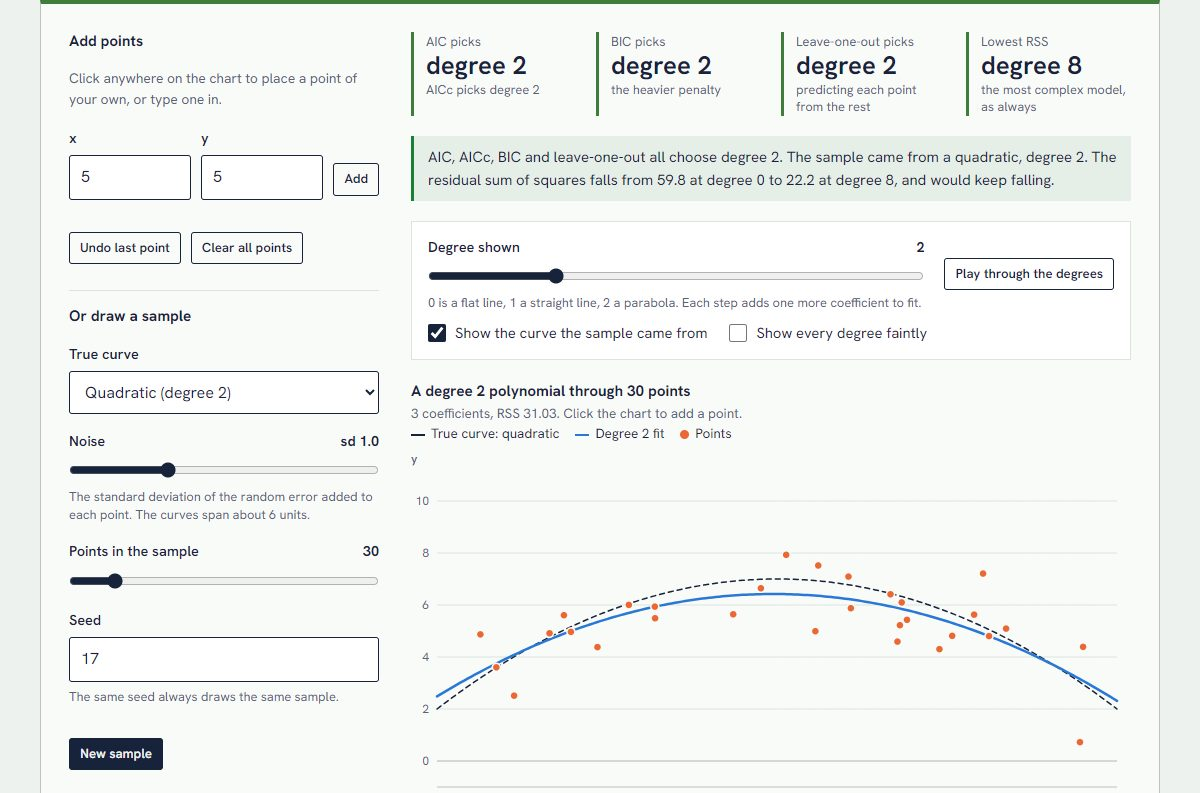
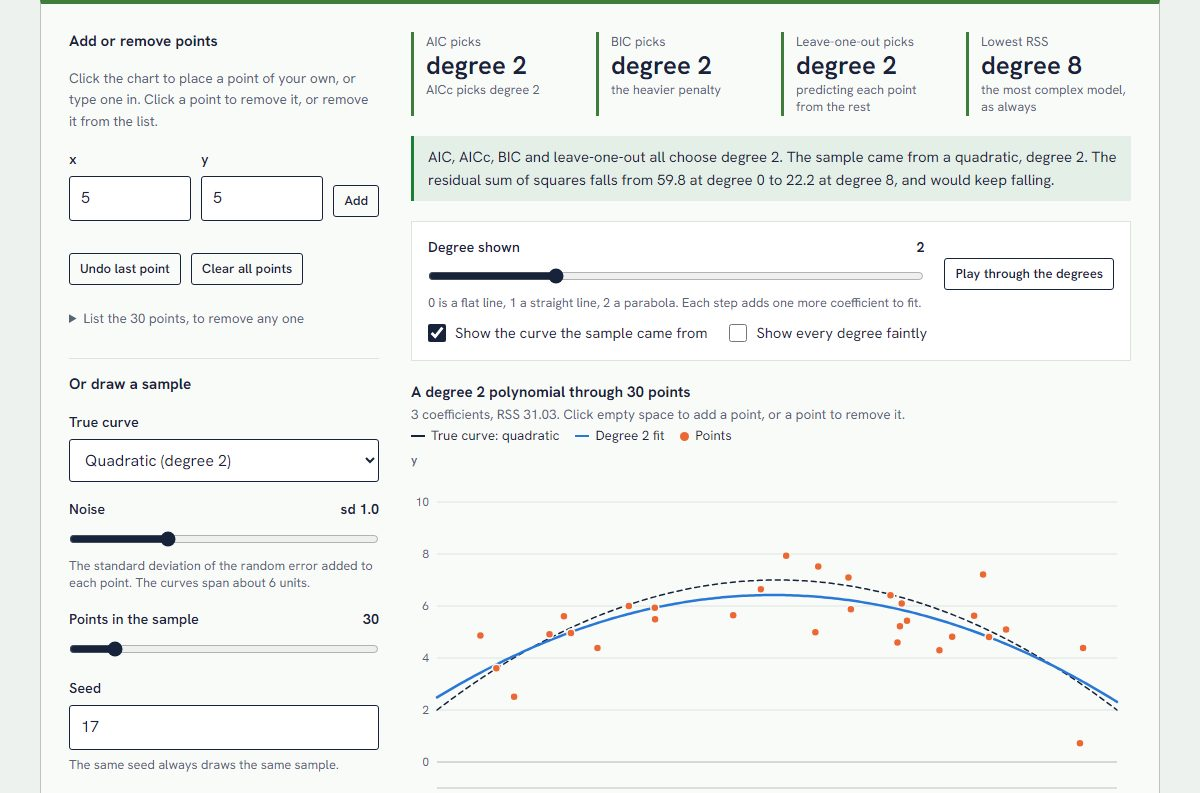
Review project 17: exact fits, correct AIC overshoot rate, remove single points

diff --git a/365projects/17/app.js b/365projects/17/app.js
@@ -49,10 +49,10 @@ const noiseSlider = slider({
 const nSlider = slider({ label: "Points in the sample", min: 5, max: 200, step: 1, value: state.n, format: fmt.int, onInput: (v) => { state.n = v; regenerate(); } });
 const seedField = numberField({ label: "Seed", min: 0, max: 999999, step: 1, value: state.seed, hint: "The same seed always draws the same sample." });
 const seedNote = el("div");
+const seedProblem = () => (Number.isInteger(seedField.value) ? "" : `The seed must be a whole number from 0 to 999,999. The sample shown still uses seed ${state.seed}.`);
 seedField.input.addEventListener("input", () => {
-  const v = seedField.value;
-  if (!Number.isInteger(v)) { seedNote.replaceChildren(note("bad", "The seed must be a whole number from 0 to 999,999.")); return; }
-  state.seed = v;
+  if (seedProblem()) { seedField.input.classList.add("invalid"); seedNote.replaceChildren(note("bad", seedProblem())); return; }
+  state.seed = seedField.value;
   regenerate();
 });
 
@@ -69,14 +69,52 @@ function addTyped() {
   refit();
 }
 
+// Every point with a button that removes it: the keyboard's way of doing what a click on a point does.
+const listBox = el("div", { class: "pts" });
+const listSummary = el("summary");
+const listDetails = el("details", { class: "chart-table" }, listSummary, listBox);
+listDetails.addEventListener("toggle", () => drawList());
+function removePoint(i, row = -1) {
+  state.points.splice(i, 1);
+  state.custom = true;
+  refit();
+  if (row >= 0) (listBox.querySelectorAll("button")[Math.min(row, state.points.length - 1)] ?? listSummary).focus();
+}
+function drawList() {
+  const count = state.points.length;
+  listSummary.textContent = count ? `List the ${count === 1 ? "point" : `${fmt.int(count)} points`}, to remove any one` : "No points to list";
+  if (!listDetails.open || !count) { listBox.replaceChildren(); return; }
+  const rows = state.points.map((p, i) => ({ ...p, i })).sort((a, b) => a.x - b.x);
+  listBox.replaceChildren(table({
+    caption: "Points, from left to right",
+    columns: [
+      { key: "x", label: "x", num: true, format: (v) => fmt.num(v, 2) },
+      { key: "y", label: "y", num: true, format: (v) => fmt.num(v, 2) },
+      { key: "i", label: "Remove", format: (i, p) => {
+        const b = button("Remove", () => removePoint(i, rows.indexOf(p)), { small: true });
+        b.setAttribute("aria-label", `Remove the point at x ${fmt.num(p.x, 2)}, y ${fmt.num(p.y, 2)}`);
+        return b;
+      } },
+    ],
+    rows,
+  }));
+}
+/** The point drawn within 9 px of a click at (px, py) in the chart's own pixels, or -1. toPx is the chart's scale. */
+function pointAt(px, py, toPx) {
+  let hit = -1, nearest = 9 * 9;
+  state.points.forEach((p, i) => { const [qx, qy] = toPx(p.x, p.y); const d = (qx - px) ** 2 + (qy - py) ** 2; if (d <= nearest) { nearest = d; hit = i; } });
+  return hit;
+}
+
 const controls = el("div", { class: "controls" },
-  el("h3", { text: "Add points" }),
-  el("p", { class: "small muted", text: "Click anywhere on the chart to place a point of your own, or type one in." }),
+  el("h3", { text: "Add or remove points" }),
+  el("p", { class: "small muted", text: "Click the chart to place a point of your own, or type one in. Click a point to remove it, or remove it from the list." }),
   el("div", { class: "xy" }, xField.el, yField.el, button("Add", addTyped, { small: true })),
   pointNote,
   el("div", { class: "row" },
     button("Undo last point", () => { state.points.pop(); state.custom = true; refit(); }, { small: true }),
     button("Clear all points", () => { state.points = []; state.custom = true; state.sampled = false; refit(); }, { small: true })),
+  listDetails,
   el("h3", { text: "Or draw a sample" }),
   truthSel.el, noiseSlider.el, nSlider.el, seedField.el, seedNote,
   el("div", { class: "row" }, button("New sample", () => { state.seed = randomSeed() % 1000000; seedField.value = state.seed; regenerate(); }, { primary: true, small: true })));
@@ -107,7 +145,7 @@ const expChart = chart(expChartBox, { series: [], height: 300 });
 function regenerate() {
   const made = generate({ truth: state.truth, noise: state.noise, n: state.n, seed: state.seed });
   if (made.error) { seedNote.replaceChildren(note("bad", made.error)); return; }
-  seedNote.replaceChildren();
+  seedNote.replaceChildren(...(seedProblem() ? [note("bad", seedProblem())] : []));
   state.points = made.points;
   state.custom = false;
   state.sampled = true;
@@ -121,6 +159,7 @@ function refit() {
   state.fitError = fit.error || "";
   if (!state.fit) stopPlay();
   draw();
+  drawList();
 }
 
 /* ---------- drawing ---------- */
@@ -130,12 +169,17 @@ function draw() {
   const { fit, points } = state;
   const t = truthOf(state.truth);
   const ys = points.map((p) => p.y);
-  const yDomain = [Math.floor(Math.min(0, ...ys) - 0.5), Math.ceil(Math.max(10, ...ys) + 0.5)];
+  const yDomain = state.yDomain = [Math.floor(Math.min(0, ...ys) - 0.5), Math.ceil(Math.max(10, ...ys) + 0.5)];
   truthBox.input.disabled = !state.sampled;
   const truthLine = state.showTruth && state.sampled ? [{ name: state.custom ? `${t.label} used by the generator` : `True curve: ${t.label.toLowerCase()}`, type: "line", data: Array.from({ length: 201 }, (_, i) => { const x = X_MIN + ((X_MAX - X_MIN) * i) / 200; return [x, t.f(x)]; }), color: "#16233b", dash: true, width: 1.5 }] : [];
   const dots = { name: "Points", type: "scatter", data: points.map((p) => [p.x, p.y]), color: 1, r: points.length > 120 ? 3 : 4 };
   const axes = { x: { label: "x", domain: [X_MIN, X_MAX] }, y: { label: "y", domain: yDomain } };
-  const onClick = ({ x, y, inside }) => { if (inside) { state.points.push({ x, y }); state.custom = true; refit(); } };
+  const onClick = ({ x, y, inside, px, py, toPx, key }) => {
+    // Mouse and touch only: from the keyboard, points are added with the x and y boxes and removed from the list.
+    if (!inside || key) return;
+    const hit = pointAt(px, py, toPx);
+    if (hit >= 0) removePoint(hit); else { state.points.push({ x, y }); state.custom = true; refit(); }
+  };
 
   degSlider.input.disabled = !fit;
   playBtn.disabled = !fit;
@@ -153,25 +197,32 @@ function draw() {
   degSlider.value = state.degree;
   const d = state.degree, m = fit.models[d], best = picks(fit);
 
-  tiles.aic.set(deg(best.aic), `AICc picks ${deg(best.aicc)}`);
+  const exact = fit.models.find((k) => k.exact); // the lowest degree that passes through every point
+  tiles.aic.set(deg(best.aic), best.aicc == null ? "AICc needs more points" : `AICc picks ${deg(best.aicc)}`);
   tiles.bic.set(deg(best.bic), "the heavier penalty");
   tiles.loo.set(deg(best.loo), "predicting each point from the rest");
-  tiles.rss.set(deg(best.rss), best.rss === fit.top ? "the most complex model, as always" : "an exact fit");
+  tiles.rss.set(deg(best.rss), exact ? "an exact fit" : fit.top === 0 ? "the only model there is room for" : best.rss === fit.top ? "the most complex model, as always" : "higher degrees fit no better here");
 
   // Verdict in words.
-  const chosen = CRITERIA.map((c) => best[c.key]);
+  const named = CRITERIA.filter((c) => best[c.key] != null);
+  const agreed = new Set(named.map((c) => best[c.key])).size === 1;
+  const list = (rules) => rules.map((c) => (c.key === "loo" ? "leave-one-out" : c.label)).join(", ").replace(/, ([^,]*)$/, " and $1");
   const parts = [];
-  if (chosen.some((v) => v == null)) parts.push("At least one model fits these points exactly, so the criteria have no noise to weigh and are not all defined.");
-  else if (new Set(chosen).size === 1) parts.push(`AIC, AICc, BIC and leave-one-out all choose degree ${chosen[0]}.`);
-  else parts.push(`The rules disagree: ${CRITERIA.map((c) => `${c.label} chooses degree ${best[c.key]}`).join(", ")}.`);
+  if (exact) parts.push(`A degree ${exact.degree} polynomial passes through all ${fit.n} points exactly${exact.degree === 0 ? ", because they share one y value" : ""}. With no misfit left to weigh against the extra coefficients, every rule is taken to choose degree ${exact.degree}. The criteria are not defined for a model that fits exactly, so the table shows a dash.`);
+  else if (fit.top === 0) parts.push("Only the mean can be fitted here, so the rules have nothing to choose between.");
+  else {
+    parts.push(agreed ? `${list(named)} all choose degree ${best[named[0].key]}.` : `The rules disagree: ${named.map((c) => `${list([c])} chooses degree ${best[c.key]}`).join(", ")}.`);
+    if (named.length < CRITERIA.length) parts.push(`${list(CRITERIA.filter((c) => best[c.key] == null))} cannot be worked out from so few points.`);
+  }
   if (!state.custom) parts.push(t.degree ? `The sample came from a ${t.label.toLowerCase()}, degree ${t.degree}.` : "The sample came from a sine wave, which no polynomial matches exactly.");
-  parts.push(`The residual sum of squares falls from ${fmt.num(fit.models[0].rss, 1)} at degree 0 to ${fmt.num(fit.models[fit.top].rss, 1)} at degree ${fit.top}, and would keep falling.`);
-  const limited = fit.top < 8 ? note("", `Only degrees 0 to ${fit.top} are fitted to these ${fit.n} points. A polynomial needs more separate x positions than its degree, and at least one point to spare, before its fit can be judged.`) : null;
-  verdict.replaceChildren(...[note(new Set(chosen).size === 1 && chosen[0] != null ? "good" : "", parts.join(" ")), limited].filter(Boolean));
+  const [first, last] = [fmt.num(fit.models[0].rss, 1), fmt.num(fit.models[fit.top].rss, 1)];
+  if (!exact && first !== last) parts.push(`The residual sum of squares falls from ${first} at degree 0 to ${last} at degree ${fit.top}${fit.top === 8 ? ", and would keep falling" : ""}.`);
+  const limited = fit.top < 8 ? note("", `${fit.top === 0 ? "Only degree 0, the mean, is" : `Only degrees 0 to ${fit.top} are`} fitted to these ${fit.n} points. A polynomial needs more separate x positions than its degree (positions that all but coincide do not count), and at least one point to spare, before its fit can be judged.`) : null;
+  verdict.replaceChildren(...[note(!exact && agreed && named.length === CRITERIA.length ? "good" : "", parts.join(" ")), limited].filter(Boolean));
 
   main.update({
     title: `A degree ${d} polynomial through ${fmt.int(fit.n)} points`,
-    subtitle: `${m.k - 1} ${m.k - 1 === 1 ? "coefficient" : "coefficients"}, RSS ${fmt.num(m.rss, 2)}. Click the chart to add a point.`,
+    subtitle: `${m.k - 1} ${m.k - 1 === 1 ? "coefficient" : "coefficients"}, RSS ${fmt.num(m.rss, 2)}. Click empty space to add a point, or a point to remove it.`,
     label: `Scatter plot of the points with the fitted degree ${d} polynomial`, ...axes, onClick, marks: [],
     series: [
       ...(state.showAll ? fit.models.filter((k) => k.degree !== d).map((k) => ({ name: `Degree ${k.degree}`, legend: false, hover: false, type: "line", data: curve(fit, k.degree), color: "#8a94a3", width: 1, opacity: 0.7 })) : []),
@@ -207,26 +258,33 @@ function draw() {
   });
   t2.classList.add("crit");
   t2.querySelectorAll("tbody tr")[d]?.classList.add("on");
-  tableBox.replaceChildren(t2);
+  const dashes = fit.models.some((k) => CRITERIA.some((c) => !Number.isFinite(k[c.key])));
+  tableBox.replaceChildren(...[t2, dashes ? el("p", { class: "small muted", text: "A dash marks a value that cannot be worked out. AICc needs at least k + 2 points, leave-one-out needs every point to be predictable from the others, and no criterion is defined for a model that fits exactly." }) : null].filter(Boolean));
 
   // Two small charts: error on the sample against error on held-out points, and the criteria.
   const x = { label: "Degree of the polynomial", domain: [0, Math.max(1, fit.top)], ticks: Math.max(1, fit.top), format: (v) => (Number.isInteger(v) ? String(v) : "") };
-  const line = (key, name, color) => ({ name, type: "line", color, data: fit.models.filter((k) => Number.isFinite(k[key])).map((k) => [k.degree, k[key]]) });
-  const dot = (key) => (best[key] == null ? [] : [{ type: "point", x: best[key], y: fit.models[best[key]][key], color: palette[COLOR[key]], r: 5 }]);
+  // What can be charted: a model that fits exactly has a rounding-error residual, which would stretch a log axis over thirty decades.
+  const usable = (key) => fit.models.filter((k) => !k.exact && Number.isFinite(k[key]));
+  const line = (key, name, color) => ({ name, type: "line", color, data: usable(key).map((k) => [k.degree, k[key]]) });
+  const blank = usable("aic").length < 2 ? { series: [], marks: [], empty: exact ? "A model fits exactly, so there is nothing to chart" : "Only one degree can be fitted" } : null;
+  // A rule's choice is marked with a dot, unless its value there is undefined (an exact fit) and there is nowhere to put one.
+  const dot = (key) => (best[key] == null || !Number.isFinite(fit.models[best[key]][key]) ? [] : [{ type: "point", x: best[key], y: fit.models[best[key]][key], color: palette[COLOR[key]], r: 5 }]);
   const here = { type: "vline", x: d };
-  const errs = fit.models.flatMap((k) => [k.mse, k.loo]).filter((v) => Number.isFinite(v) && v > 0);
+  const errs = [...usable("mse").map((k) => k.mse), ...usable("loo").map((k) => k.loo)].filter((v) => v > 0);
   errChart.update({
     title: "Error on the sample, and on points left out", subtitle: "Fitting error only falls. The error on a point the model has not seen turns back up.",
     label: "Line chart of mean squared error by degree, on the sample and leave-one-out", x,
-    y: { label: "Mean squared error (log scale)", type: "log", domain: errs.length ? [Math.min(...errs) / 1.25, Math.max(...errs) * 1.25] : undefined, format: (v) => fmt.sig(v, 2) },
+    y: { label: "Mean squared error (log scale)", type: "log", domain: errs.length ? [Math.min(...errs) / 1.25, Math.max(...errs) * 1.25] : undefined, format: (v) => (v >= 0.001 ? fmt.sig(v, 2) : v.toExponential(0)) },
     series: [line("mse", "On the sample (RSS / n)", "#8a94a3"), line("loo", "Leave-one-out", COLOR.loo)],
     marks: [here, ...dot("loo")],
+    ...blank,
   });
   critChart.update({
     title: "The information criteria", subtitle: "Fit plus a charge for each parameter. Lower is better; the dot is each one's choice.",
     label: "Line chart of AIC, AICc and BIC by degree", x, y: { label: "Criterion value" },
     series: ["aic", "aicc", "bic"].map((key) => line(key, LABEL[key], COLOR[key])),
     marks: [here, ...["aic", "aicc", "bic"].flatMap(dot)],
+    ...blank,
   });
 }
 
@@ -235,11 +293,16 @@ function experimentNow() {
   const token = ++state.run;
   const settings = { truth: state.truth, noise: state.noise, n: state.n, seed: state.seed };
   const trials = [];
+  let said = -Infinity; // the status line is read out by screen readers, so progress is reported twice a second and no more
   const step = () => {
     if (token !== state.run) return;
     const t0 = performance.now();
     while (trials.length < RUNS && performance.now() - t0 < 25) trials.push(...experiment(settings, trials.length, Math.min(RUNS, trials.length + 20)));
-    if (trials.length < RUNS) { expStatus.textContent = `Drawing samples: ${fmt.int(trials.length)} of ${fmt.int(RUNS)}…`; setTimeout(step, 0); return; }
+    if (trials.length < RUNS) {
+      if (t0 - said >= 500) { said = t0; expStatus.textContent = `Drawing samples: ${fmt.int(trials.length)} of ${fmt.int(RUNS)}…`; }
+      setTimeout(step, 0);
+      return;
+    }
     drawExperiment(summarise(trials, truthOf(settings.truth).degree), settings);
   };
   step();

diff --git a/365projects/17/index.html b/365projects/17/index.html
@@ -16,7 +16,7 @@
     .xy { display: grid; grid-template-columns: minmax(0, 1fr) minmax(0, 1fr) auto; gap: 10px; align-items: end; }
     .xy .btn { margin-bottom: 4px; }
     .low { position: relative; font-weight: 700; padding: 1px 6px; border-radius: 3px; background: color-mix(in srgb, var(--good) 18%, transparent); }
-    .crit td { vertical-align: middle; }
+    .crit td, .pts td { vertical-align: middle; }
     .crit tr.on { background: color-mix(in srgb, var(--ink) 6%, transparent); }
     .crit .btn.small { min-width: 2.4em; }
     .exp { display: grid; grid-template-columns: minmax(0, 1fr); gap: 14px; padding-top: 24px; border-top: 1px solid var(--rule); }
@@ -50,20 +50,20 @@
       <h2>The idea</h2>
       <p>Occam's razor is the advice, credited to the fourteenth-century friar William of Ockham, not to multiply entities beyond necessity: of two explanations that account for the facts equally well, take the simpler. The catch is in "equally well". Two theories almost never fit equally well, because the more complicated one almost always fits better. A curve with nine adjustable coefficients can bend closer to thirty points than a curve with three, whatever produced the points. If closeness of fit were the test, the most complicated theory on the table would win every time, and the razor would never get to cut.</p>
       <p>The way out is to notice that part of any good fit is a fit to noise. Each extra parameter buys a guaranteed drop in error on the data in hand, whether or not it has caught anything real, and noise does not repeat. So a flexible model does better on the old data and worse on the next batch. In the early 1970s Hirotugu Akaike showed how to put a number on this: a model's expected fit to new data is roughly its fit to the old data less a charge for every parameter. Malcolm Forster and Elliott Sober later argued that this takes the mystery out of parsimony. A scientist who prefers the simpler theory need not believe that nature is simple. Simpler models, fitted to limited data, tend to predict better.</p>
-      <p>There are two well-known ways to set the charge, and they answer different questions. Akaike's criterion (AIC) asks which model will predict new data best, and does not suppose that any candidate is true. Gideon Schwarz's criterion (BIC) asks which candidate is most probably the true one, supposing one of them is. BIC charges more per parameter, and more again as the sample grows. The experiment at the bottom of the tool shows the consequence. When a simple truth is among the candidates, BIC finds it more often (865 samples in 1,000 against 607), and AIC goes on choosing something too elaborate about a third of the time however much data it gets. When the truth is a sine wave that no polynomial matches, the roles swap: with 100 points, the curves AIC picks sit closer to the truth (average error 0.087) than the ones BIC picks (0.101), because the right move there is to keep adding terms as the data allow.</p>
+      <p>There are two well-known ways to set the charge, and they answer different questions. Akaike's criterion (AIC) asks which model will predict new data best, and does not suppose that any candidate is true. Gideon Schwarz's criterion (BIC) asks which candidate is most probably the true one, supposing one of them is. BIC charges more per parameter, and more again as the sample grows. The experiment at the bottom of the tool shows the consequence. When a simple truth is among the candidates, BIC finds it more often (865 samples in 1,000 against 607), and more data does not cure AIC of overshooting: at 200 points, the most the tool draws, it still picks too high a degree in 288 samples of 1,000, against 28 for BIC. That is a known property of AIC and not a quirk of this simulation. However large the sample, one unnecessary coefficient gets past AIC's charge 15.7% of the time, and with six unnecessary degrees on offer, as here, the chance that some higher degree wins settles at about 27%. The calculation is set out below; the result goes back to Ritei Shibata and Michael Woodroofe. When the truth is a sine wave that no polynomial matches, the roles swap: with 100 points, the curves AIC picks sit closer to the truth (average error 0.087) than the ones BIC picks (0.101), because the right move there is to keep adding terms as the data allow.</p>
       <p>This matters wherever a model with many adjustable parts is fitted to a limited record: economic forecasts, epidemic curves, election models, machine learning. A close fit to the past is cheap. Asking how many knobs it took, and what each one cost, is the working form of Ockham's question.</p>
     </section>
 
     <section class="p-sec">
       <h2>How it works</h2>
       <h3>The points</h3>
-      <p>A sample is <var>n</var> points with <var>x</var> drawn evenly at random between 0 and 10 and <var>y</var> = <var>f</var>(<var>x</var>) + noise, where the noise is normal with the standard deviation on the slider. The four choices of <var>f</var> are a straight line (2 + 0.6<var>x</var>), a parabola (2 + 2<var>x</var> − 0.2<var>x</var>²), a cubic (5 + 8(<var>u</var>³ − 0.6<var>u</var>) with <var>u</var> = (<var>x</var> − 5)/5) and a sine wave (5 + 3 sin 0.9<var>x</var>). All randomness comes from a seeded generator, so a seed names a sample exactly. Clicking the chart adds a point where the pointer is, and the two number boxes add one at typed coordinates.</p>
+      <p>A sample is <var>n</var> points with <var>x</var> drawn evenly at random between 0 and 10 and <var>y</var> = <var>f</var>(<var>x</var>) + noise, where the noise is normal with the standard deviation on the slider. The four choices of <var>f</var> are a straight line (2 + 0.6<var>x</var>), a parabola (2 + 2<var>x</var> − 0.2<var>x</var>²), a cubic (5 + 8(<var>u</var>³ − 0.6<var>u</var>) with <var>u</var> = (<var>x</var> − 5)/5) and a sine wave (5 + 3 sin 0.9<var>x</var>). All randomness comes from a seeded generator, so a seed names a sample exactly. Clicking an empty part of the chart adds a point where the pointer is, and the two number boxes add one at typed coordinates. Clicking a point removes it, and so does the "Remove" button beside it in the list of points, which is the way to do it from the keyboard.</p>
 
       <h3>Fitting every degree at once</h3>
       <p>The degree-<var>d</var> model is <var>y</var> = <var>b</var><sub>0</sub> + <var>b</var><sub>1</sub><var>x</var> + … + <var>b</var><sub><var>d</var></sub><var>x</var><sup><var>d</var></sup>, with the coefficients chosen to minimise the residual sum of squares</p>
       <p class="eq">RSS<sub><var>d</var></sub> = Σ<sub><var>i</var></sub> ( <var>y</var><sub><var>i</var></sub> − <var>ŷ</var><sub><var>d</var></sub>(<var>x</var><sub><var>i</var></sub>) )²</p>
       <p>Solving this with a matrix of raw powers of <var>x</var> goes wrong quickly: at <var>x</var> = 10 the eighth power is a hundred million, and the columns become nearly copies of each other. The page instead maps <var>x</var> onto <var>t</var> between −1 and 1, builds the columns from Legendre polynomials in <var>t</var>, which stay between −1 and 1 and are far from parallel, and makes them exactly orthonormal one after another (a QR factorisation by Gram-Schmidt, with each column cleaned twice). The fitted values for degree <var>d</var> are then the projection of <var>y</var> onto the first <var>d</var> + 1 orthonormal columns, so one pass gives every degree. The same polynomial is fitted as before; only the arithmetic is safer. A test fits points near <var>x</var> = 1,000,000 and gets the same answers as near zero.</p>
-      <p>The highest degree offered is 8, and less when the points cannot support it: a polynomial needs more separate <var>x</var> positions than its degree, and the page keeps at least one point to spare so the fit is never forced through every point.</p>
+      <p>The highest degree offered is 8, and less when the points cannot support it: a polynomial needs more separate <var>x</var> positions than its degree, and the page keeps at least one point to spare so the fit is never forced through every point. Positions that all but coincide do not count as separate: a degree is dropped when its column adds less than a billionth of its own length to what the lower degrees already span.</p>
 
       <h3>The criteria</h3>
       <p>Assume the errors are independent and normal with one unknown variance. Maximising the likelihood gives the least-squares coefficients and a variance estimate of RSS/<var>n</var>, and −2 times the maximised log-likelihood is <var>n</var> ln(RSS/<var>n</var>) plus a constant, <var>n</var>(1 + ln 2π), that is the same for every model and is dropped. With <var>k</var> the number of estimated parameters:</p>
@@ -71,6 +71,7 @@
       <p class="eq">AICc = AIC + 2<var>k</var>(<var>k</var> + 1) / (<var>n</var> − <var>k</var> − 1)</p>
       <p class="eq">BIC = <var>n</var> ln(RSS / <var>n</var>) + <var>k</var> ln <var>n</var></p>
       <p>Here <var>k</var> = <var>d</var> + 2: the <var>d</var> + 1 coefficients and the error variance. Counting the variance adds the same amount to every model's AIC and BIC, so it does not change their order, but it does matter for AICc. In all three the first term rewards fit and the second charges for parameters. AIC charges 2 per parameter. BIC charges ln <var>n</var>, which is 3.4 at 30 points and 4.6 at 100. AICc is AIC with a correction for small samples that grows steeply as <var>k</var> approaches <var>n</var>: at 30 points and degree 8 it adds 11.6. Only differences between models mean anything; the values themselves have no scale.</p>
+      <p>If some degree passes through every point exactly, RSS is zero, the logarithm has no value and none of the criteria is defined for that degree or any above it. There is then no misfit to weigh against the extra coefficients, so the page reports the lowest degree that fits exactly as every rule's choice and shows a dash where a value would be. This can only happen with points placed by hand, since a drawn sample always has noise.</p>
 
       <h3>Leave-one-out cross-validation</h3>
       <p>Remove one point, fit the model to the rest, and see how far the fitted curve is from the point removed. Do that for every point and average the squared misses. For least squares this needs no refitting, because the miss for point <var>i</var> is its ordinary residual <var>e</var><sub><var>i</var></sub> scaled up by its leverage <var>h</var><sub><var>ii</var></sub>, the sum of the squares of row <var>i</var> of the orthonormal columns:</p>
@@ -78,7 +79,8 @@
       <p>A test checks this shortcut against refitting without each point in turn. Leave-one-out and AIC tend to agree in large samples, a result due to Mervyn Stone.</p>
 
       <h3>The repeated experiment</h3>
-      <p>One sample can flatter any rule. The lower panel draws 1,000 samples with the current curve, noise and size, fits all nine degrees to each, and counts which degree each rule picks. It also scores each pick against the truth, as the mean squared gap between the chosen curve and the true curve at the sampled <var>x</var> values. Theory gives a check: a polynomial that contains the truth has an expected gap of (<var>d</var> + 1)σ²/<var>n</var>, so every unnecessary coefficient costs σ²/<var>n</var>. The "best with hindsight" row is the single degree that would have done best on average, which no rule can know in advance.</p>
+      <p>One sample can flatter any rule. The lower panel draws 1,000 samples with the current curve, noise and size, fits all nine degrees to each, and counts which degree each rule picks. It also scores each pick against the truth, as the mean squared gap between the chosen curve and the true curve at the sampled <var>x</var> values. Theory gives a check: a polynomial that contains the truth has an expected gap of (<var>d</var> + 1)σ²/<var>n</var>, so every unnecessary coefficient costs σ²/<var>n</var>. The row marked "hindsight" is the single degree that would have done best on average, which no rule can know in advance.</p>
+      <p>AIC's overshooting can be checked against theory as well. In a large sample from a polynomial of degree <var>d</var><sub>0</sub>, the gain in fit from <var>j</var> unnecessary coefficients, <var>n</var> ln(RSS<sub><var>d</var><sub>0</sub></sub> / RSS<sub><var>d</var><sub>0</sub> + <var>j</var></sub>), behaves like <var>S</var><sub><var>j</var></sub>, the sum of <var>j</var> independent squared standard normal variables, and AIC prefers degree <var>d</var><sub>0</sub> + <var>j</var> to <var>d</var><sub>0</sub> when <var>S</var><sub><var>j</var></sub> &gt; 2<var>j</var>. With one unnecessary degree on offer, that is the chance that a chi-squared variable with one degree of freedom exceeds 2, which is 15.7%. With six on offer, as when the truth is a parabola and the highest degree is 8, AIC overshoots if <var>S</var><sub><var>j</var></sub> − 2<var>j</var> rises above zero for any <var>j</var> from 1 to 6, and the chance of that is 27.1%. Neither figure involves <var>n</var>, which is why more data does not help. BIC's charge of ln <var>n</var> per parameter grows without limit, so its chance of overshooting falls to zero. A test computes both figures and checks that the tool's share for AIC heads towards the second as the sample grows: 393 samples in 1,000 at 30 points, 288 at 200, and 281 at 1,000 points, which is beyond the slider.</p>
     </section>
 
     <section class="p-sec">
@@ -112,6 +114,8 @@
         <li>Schwarz, G. (1978). Estimating the dimension of a model. <em>Annals of Statistics</em>, 6(2), 461-464.</li>
         <li>Hurvich, C. M., and Tsai, C.-L. (1989). Regression and time series model selection in small samples. <em>Biometrika</em>, 76(2), 297-307.</li>
         <li>Stone, M. (1977). An asymptotic equivalence of choice of model by cross-validation and Akaike's criterion. <em>Journal of the Royal Statistical Society, Series B</em>, 39(1), 44-47.</li>
+        <li>Shibata, R. (1976). Selection of the order of an autoregressive model by Akaike's information criterion. <em>Biometrika</em>, 63(1), 117-126.</li>
+        <li>Woodroofe, M. (1982). On model selection and the arc sine laws. <em>Annals of Statistics</em>, 10(4), 1182-1194.</li>
         <li>Burnham, K. P., and Anderson, D. R. (2002). <em>Model Selection and Multimodel Inference: A Practical Information-Theoretic Approach</em> (2nd ed.). Springer.</li>
         <li>Forster, M., and Sober, E. (1994). How to tell when simpler, more unified, or less ad hoc theories will provide more accurate predictions. <em>British Journal for the Philosophy of Science</em>, 45(1), 1-35.</li>
         <li>Sober, E. (2015). <em>Ockham's Razors: A User's Manual</em>. Cambridge University Press.</li>

diff --git a/365projects/17/logic.js b/365projects/17/logic.js
@@ -130,12 +130,21 @@ export function predict(fit, degree, x) {
 export const curve = (fit, degree, from = X_MIN, to = X_MAX, steps = 200) =>
   Array.from({ length: steps + 1 }, (_, i) => { const x = from + ((to - from) * i) / steps; return [x, predict(fit, degree, x)]; });
 
-/** The degree each measure likes best: the lowest finite value, and the lower degree on a tie. null if it is never defined. */
+/**
+ * The degree each measure likes best: the lowest finite value, and the lower degree on a tie. null if it is never defined.
+ *
+ * If some degree passes through every point exactly, there is no misfit left to weigh: its residual is zero, the
+ * log-likelihood has no upper limit, and the criteria are undefined for it and for every higher degree. Preferring a
+ * lower degree that fits worse would be absurd, so every measure is then taken to pick the lowest degree that fits exactly.
+ * For the residual sum of squares, a fall of less than a million-millionth of the total is rounding and counts as a tie.
+ */
 export function picks(fit) {
+  const exact = fit.models.find((m) => m.exact);
   const out = {};
   for (const key of ["rss", "aic", "aicc", "bic", "loo"]) {
-    let best = null;
-    for (const m of fit.models) if (Number.isFinite(m[key]) && (best === null || m[key] < fit.models[best][key])) best = m.degree;
+    let best = exact ? exact.degree : null;
+    const slack = key === "rss" ? 1e-12 * (fit.tss || 1) : 0;
+    if (!exact) for (const m of fit.models) if (Number.isFinite(m[key]) && (best === null || m[key] < fit.models[best][key] - slack)) best = m.degree;
     out[key] = best;
   }
   return out;
